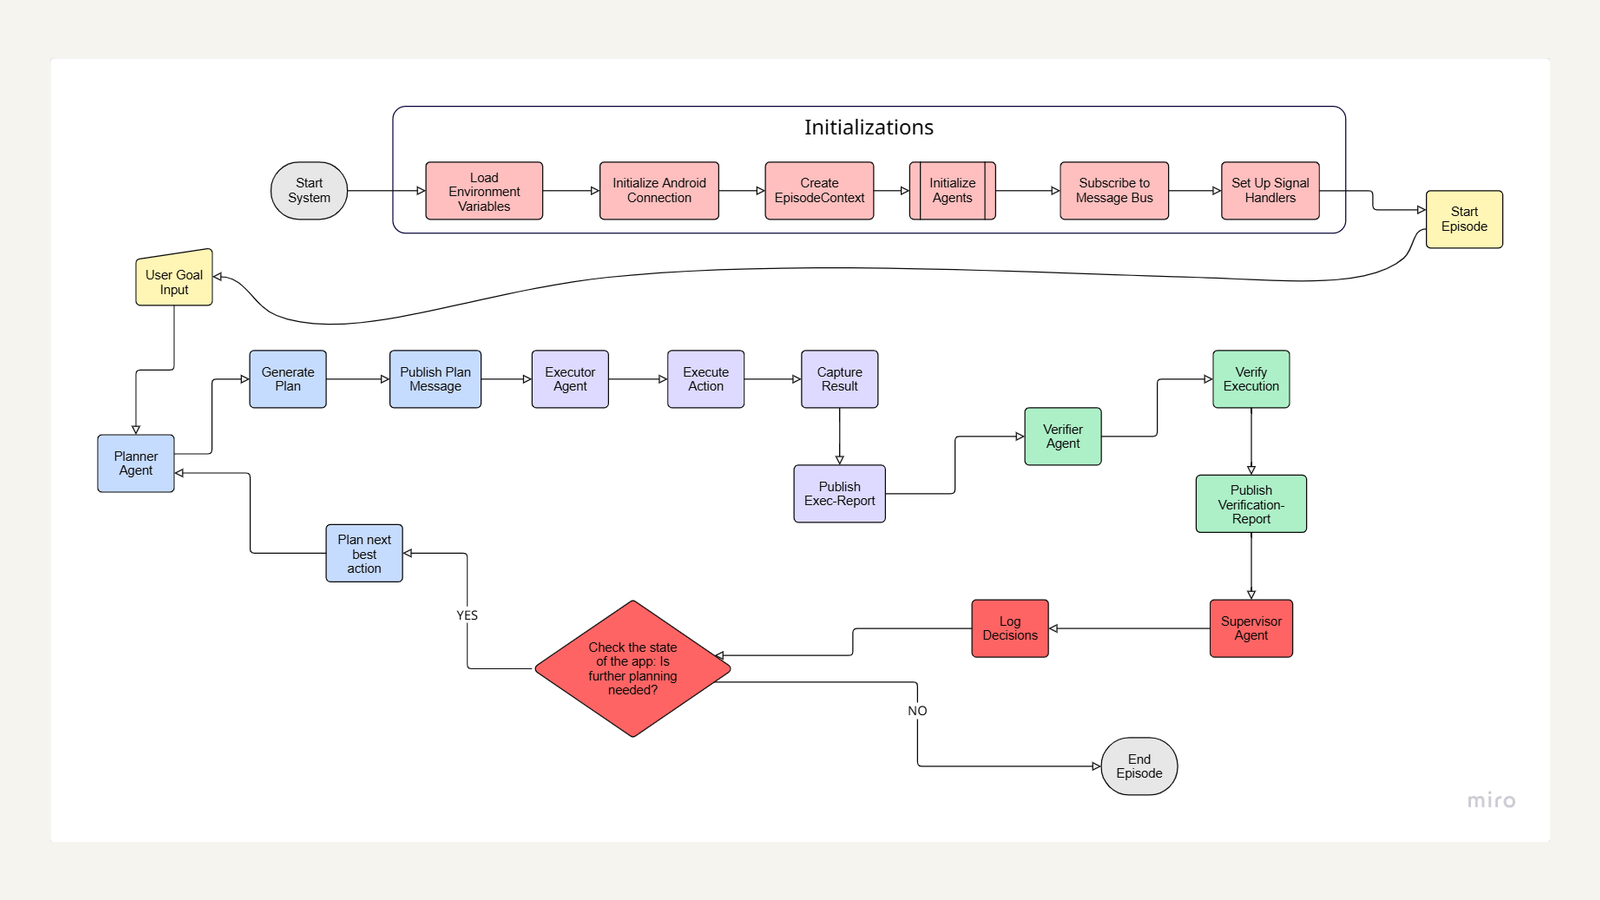
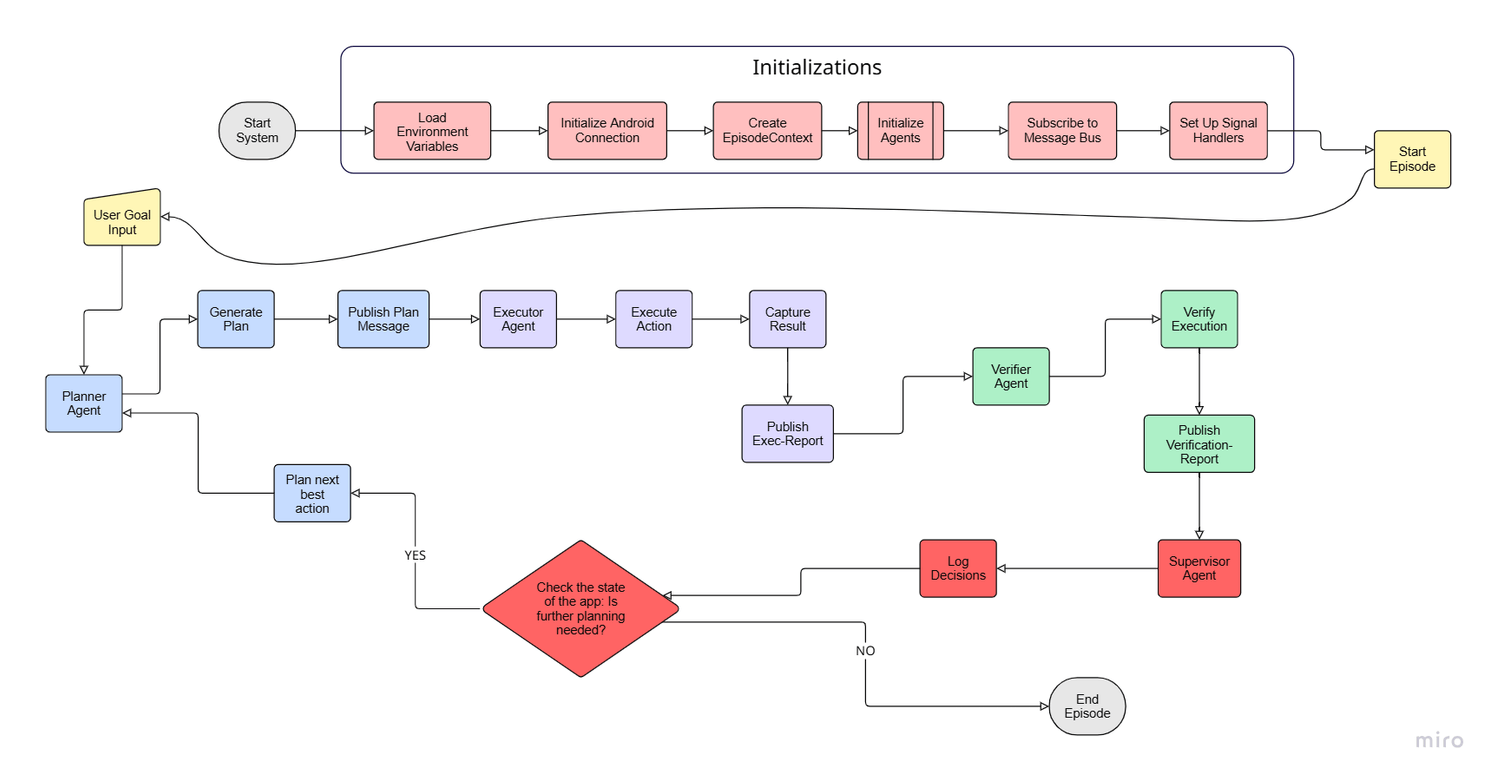
The QA diagram has a dark print, and loses its baked-in mat
The multi-agent QA cover is a Miro export: a pure-white card inside a
50px cream mat, both baked into the PNG. On the dark page it was by far
the brightest thing there, its pink and red boxes off-palette, and the
mat drew a second frame inside the plate. Nothing on the site adapts a
raster figure to the theme, and the clinical screenshots must not be
inverted, so this has to be per image.

A cover can now carry `srcDark`, a print of the same drawing for the
dark theme, and case.css shows whichever matches the theme (both
data-theme and the OS preference; print stays paper). The dark print was
made from the diagram itself: lightness inverted onto the plate's own
ground (--ground-2, so it sits flush in the frame) and bone lines, hue
kept at half chroma, with a gentle curve so the box fills stay dark
under bone text. Both prints are cropped to the white card, so the plate
mark and frame are the only frame; the light print is otherwise the same
image.

diff --git a/src/components/project/project-body.tsx b/src/components/project/project-body.tsx
@@ -27,6 +27,10 @@ import { CODA, MOVEMENTS, hasCoda } from "@/lib/corpus";
  * movements, as the colophon did.
  */
 
+/** The cover spans the two movement columns; one list for both prints. */
+const COVER_SIZES =
+  "(min-width: 80rem) 48rem, (min-width: 64rem) 40rem, 100vw";
+
 /**
  * The first sentence, and everything after it.
  *
@@ -76,13 +80,27 @@ export function ProjectBody({ project }: { project: Project }) {
           {cover && (
             <figure className="case-figure plate-mark">
               <DotMask ratio={`${cover.width} / ${cover.height}`}>
+                {/* A diagram with a dark print carries both; case.css shows
+                    the one that matches the theme. The other is display:
+                    none, so a lazy image is never fetched and never read. */}
                 <Image
                   src={cover.src}
                   alt={cover.alt}
                   width={cover.width}
                   height={cover.height}
-                  sizes="(min-width: 80rem) 48rem, (min-width: 64rem) 40rem, 100vw"
+                  sizes={COVER_SIZES}
+                  className={cover.srcDark ? "cover-light" : undefined}
                 />
+                {cover.srcDark && (
+                  <Image
+                    src={cover.srcDark}
+                    alt={cover.alt}
+                    width={cover.width}
+                    height={cover.height}
+                    sizes={COVER_SIZES}
+                    className="cover-dark"
+                  />
+                )}
               </DotMask>
             </figure>
           )}

diff --git a/src/app/case.css b/src/app/case.css
@@ -361,6 +361,35 @@
     max-width: 44rem;
   }
 
+  /* A diagram drawn on white is the brightest thing on the dark page, so a
+     cover that has a dark print (content: `srcDark`) swaps to it: the same
+     drawing with the ground on the plate's --ground-2 and the lines in bone.
+     Only one of the two is ever displayed. Screen only: print is paper
+     (globals.css), whatever the theme, so it keeps the light print. */
+  .case-figure .cover-dark {
+    display: none;
+  }
+
+  @media screen {
+    :root[data-theme="dark"] .case-figure .cover-light {
+      display: none;
+    }
+
+    :root[data-theme="dark"] .case-figure .cover-dark {
+      display: block;
+    }
+  }
+
+  @media screen and (prefers-color-scheme: dark) {
+    :root:not([data-theme="light"]) .case-figure .cover-light {
+      display: none;
+    }
+
+    :root:not([data-theme="light"]) .case-figure .cover-dark {
+      display: block;
+    }
+  }
+
   .plate-grid {
     display: grid;
     row-gap: var(--space-6);

diff --git a/src/content/projects.ts b/src/content/projects.ts
@@ -225,9 +225,10 @@ export const projects: Project[] = [
     cover: {
       kind: "image",
       src: "/projects/qa-architecture.png",
+      srcDark: "/projects/qa-architecture-dark.png",
       alt: "Architecture diagram of the multi-agent QA system, showing the planner, executor, verifier, and supervisor agents communicating over a message bus within an episode loop",
-      width: 1600,
-      height: 900,
+      width: 1496,
+      height: 780,
     },
     links: [
       {

diff --git a/src/content/types.ts b/src/content/types.ts
@@ -17,6 +17,13 @@ export type MediaSlot = {
   width: number;
   height: number;
   caption?: string;
+  /**
+   * The same picture printed for the dark theme, where a figure drawn on
+   * white is otherwise the brightest thing on the page. For a diagram only:
+   * a screenshot is what the screen looked like and is never re-inked.
+   * Same size as `src`.
+   */
+  srcDark?: string;
 };
 
 export type ProjectStatus = "shipped" | "research" | "ongoing";
